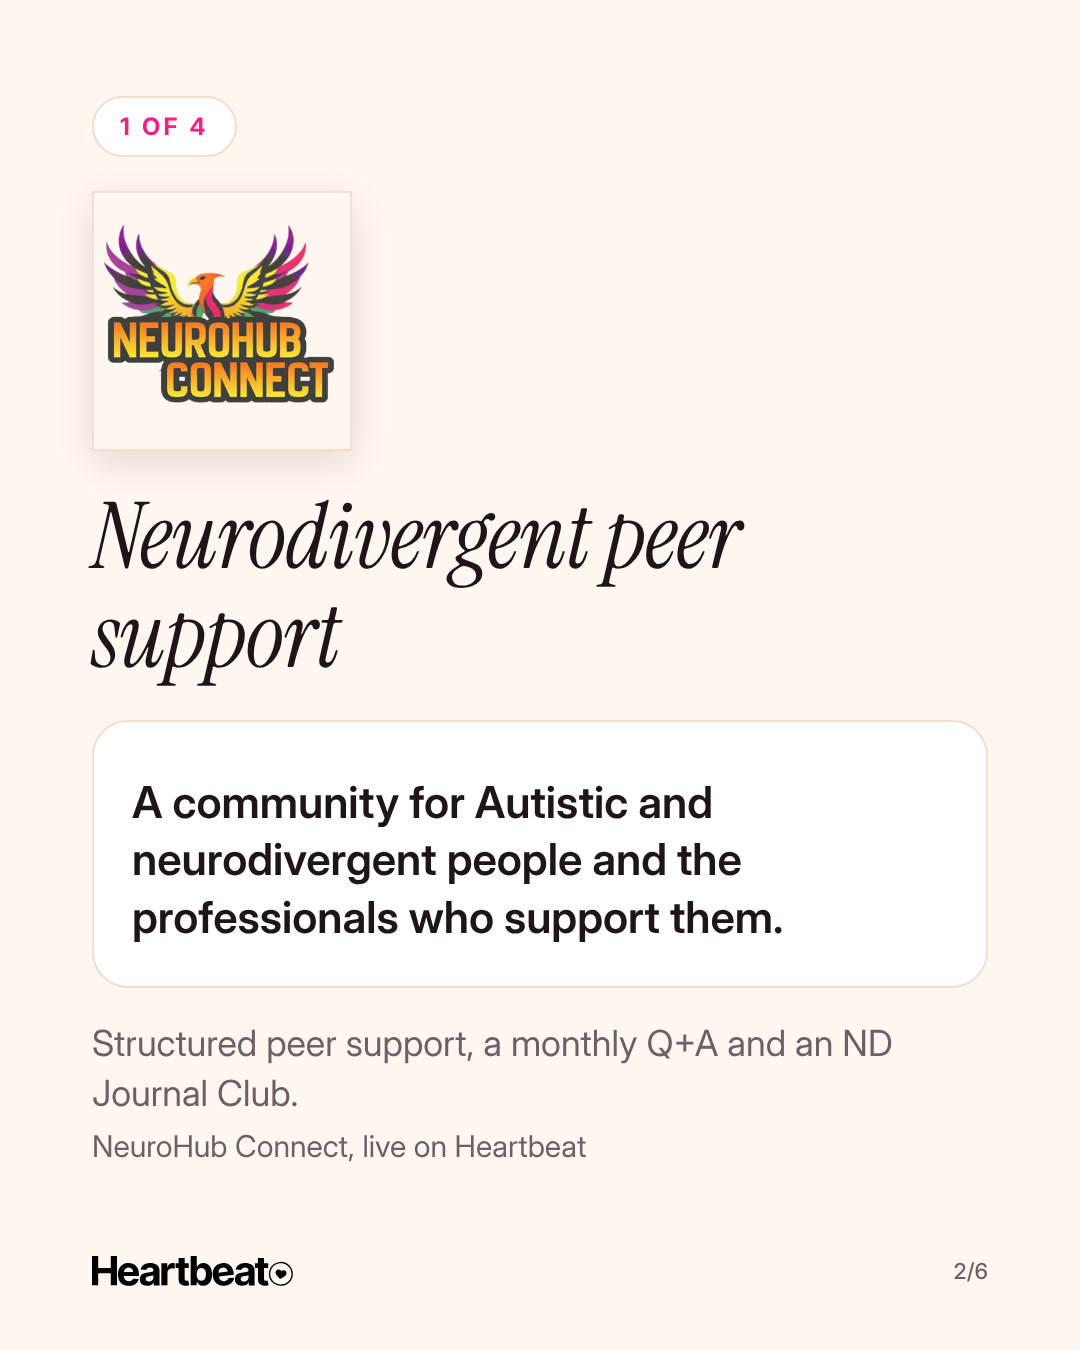
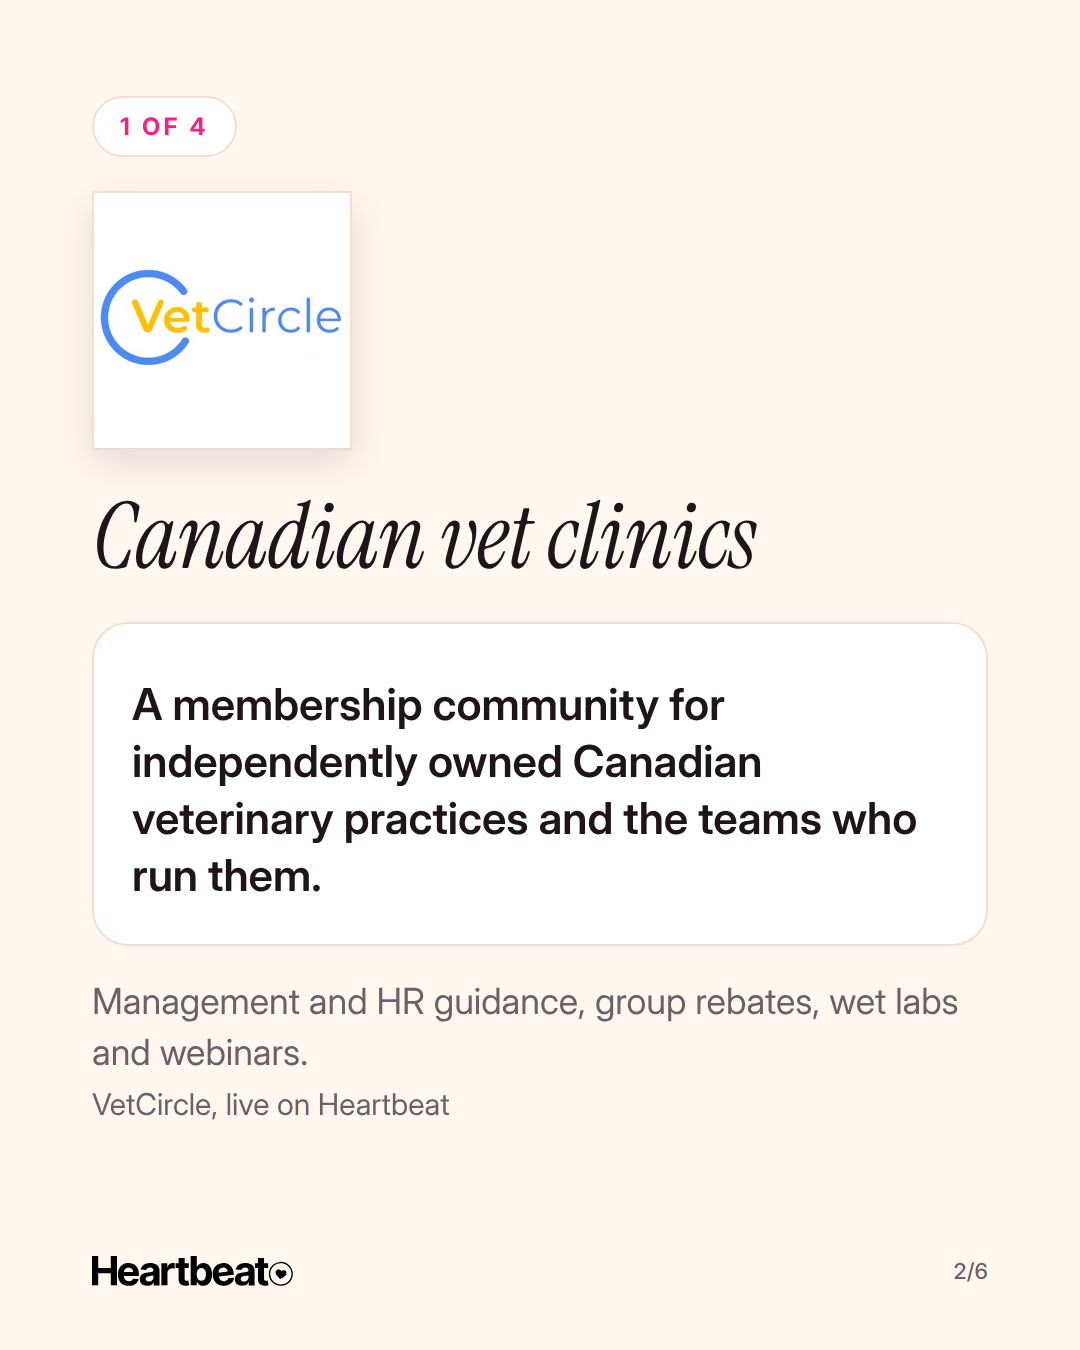
Swap NeuroHub Connect for VetCircle in 2026-10-25 carousel
Claude-Session: https://claude.ai/code/session_01LGVYQTJKkAU7nBow5jSjQG

diff --git a/posts/2026-10-25-paid-community-for-that-2/src/slide-02.html b/posts/2026-10-25-paid-community-for-that-2/src/slide-02.html
@@ -1,2 +1,2 @@
 <!doctype html><html><head><meta charset="utf-8">{{BRAND}}<style>.head{font-size:92px}.av{width:260px;height:260px;border-radius:50%%;border:2px solid #F3DED3;box-shadow:0 12px 36px rgba(31,20,24,.12);margin-top:34px;object-fit:cover}</style></head>
-<body><div class="frame"><div class="pill">1 of 4</div><img class="av" src="assets/neurohub-connect-community-avatar.png"><div class="head" style="margin-top:36px"><em>Neurodivergent peer support</em></div><div class="card" style="margin-top:36px"><div class="t" style="font-size:44px;line-height:1.3">A community for Autistic and neurodivergent people and the professionals who support them.</div></div><div class="sub" style="font-size:36px;margin-top:30px">Structured peer support, a monthly Q+A and an ND Journal Club.</div><div class="sub" style="font-size:30px;margin-top:6px">NeuroHub Connect, live on Heartbeat</div></div><div class="foot"><img src="{{ROOT}}/brand/heartbeat-wordmark-black.svg"><span>2/6</span></div></body></html>
+<body><div class="frame"><div class="pill">1 of 4</div><img class="av" src="assets/vetcircle-avatar.jpg"><div class="head" style="margin-top:36px"><em>Canadian vet clinics</em></div><div class="card" style="margin-top:36px"><div class="t" style="font-size:44px;line-height:1.3">A membership community for independently owned Canadian veterinary practices and the teams who run them.</div></div><div class="sub" style="font-size:36px;margin-top:30px">Management and HR guidance, group rebates, wet labs and webinars.</div><div class="sub" style="font-size:30px;margin-top:6px">VetCircle, live on Heartbeat</div></div><div class="foot"><img src="{{ROOT}}/brand/heartbeat-wordmark-black.svg"><span>2/6</span></div></body></html>

diff --git a/posts/2026-10-25-paid-community-for-that-2/src/slide-01.html b/posts/2026-10-25-paid-community-for-that-2/src/slide-01.html
@@ -1,2 +1,2 @@
 <!doctype html><html><head><meta charset="utf-8">{{BRAND}}<style>.g{display:grid;grid-template-columns:1fr 1fr;gap:34px;margin:60px auto 0;width:760px}.g div{aspect-ratio:1;border-radius:44px;overflow:hidden;border:2px solid #F3DED3;box-shadow:0 18px 50px rgba(31,20,24,.14);background:#fff}.g img{width:100%;height:100%;object-fit:cover}.head{font-size:84px}</style></head>
-<body><div class="frame"><div class="pill">Yes, really</div><div class="head" style="margin-top:40px">You can run a paid community for <em>that.</em></div><div class="g"><div><img src="assets/neurohub-connect-community-avatar.png"></div><div><img src="assets/the-governance-hub-avatar.png"></div><div><img src="assets/cincyai-for-humans-avatar.jpg"></div><div><img src="assets/collectively-sustainable-avatar.jpg"></div></div></div><div class="foot"><img src="{{ROOT}}/brand/heartbeat-wordmark-black.svg"><span>1/6</span></div></body></html>
+<body><div class="frame"><div class="pill">Yes, really</div><div class="head" style="margin-top:40px">You can run a paid community for <em>that.</em></div><div class="g"><div><img src="assets/vetcircle-avatar.jpg"></div><div><img src="assets/the-governance-hub-avatar.png"></div><div><img src="assets/cincyai-for-humans-avatar.jpg"></div><div><img src="assets/collectively-sustainable-avatar.jpg"></div></div></div><div class="foot"><img src="{{ROOT}}/brand/heartbeat-wordmark-black.svg"><span>1/6</span></div></body></html>
